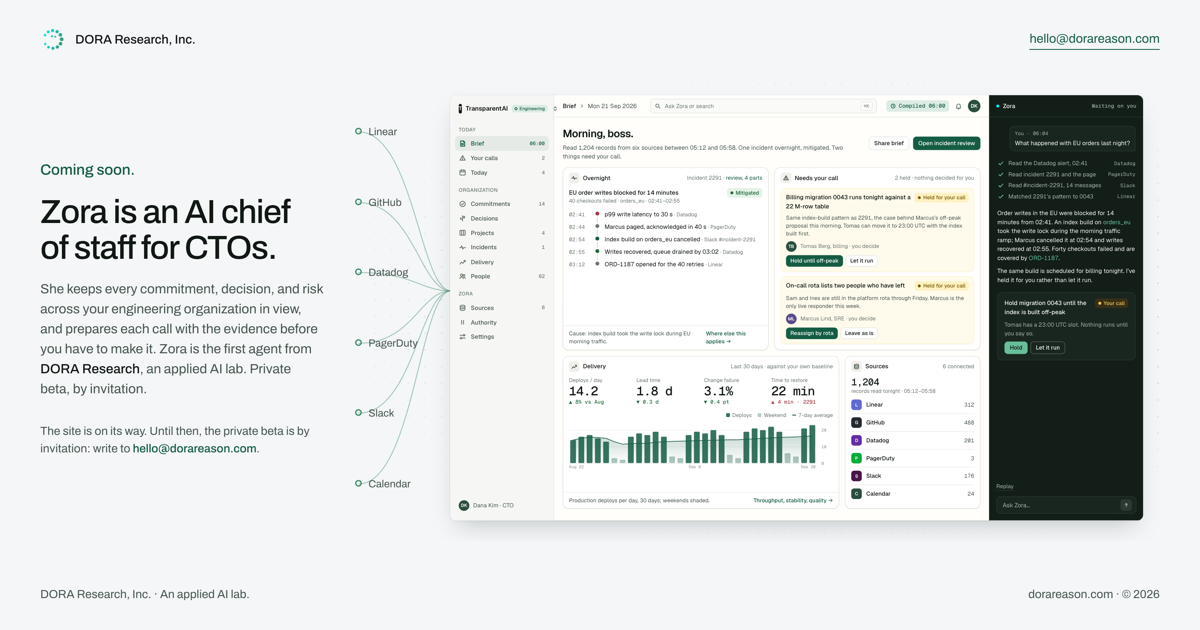
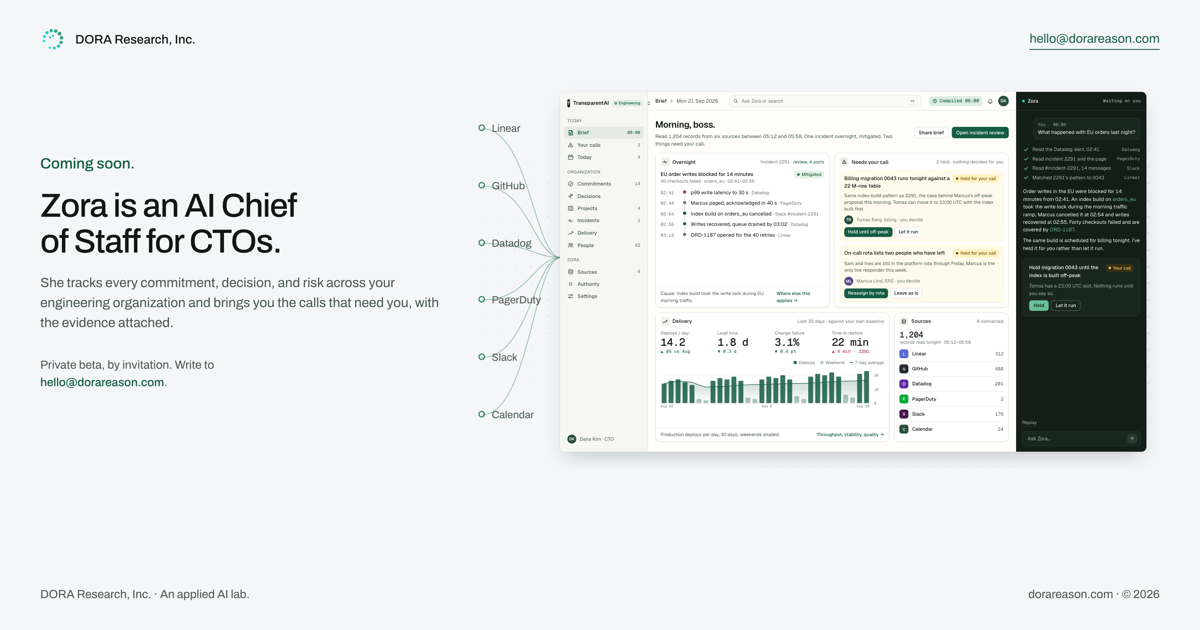
Design review: window at half width, phone layout, hero copy (#15)
* style(design): FINDING-001 — window takes half the page, copy gets a readable measure

The stage took 72% of the content width and the copy column was 340 px,
a 40-character measure. The copy column is now 480 px (about 54 characters)
and the window is about half the content width at 1440 px, still on the
right. The 1200 px stacking rule is gone; the hero stacks at 960 px.

* style(design): FINDING-002 — the window on phones

Header and top bar wrap, the greeting stacks above its actions, the four
delivery figures go two-up, and the later widget rows stay hidden at every
width, so a phone shows the same four widgets as a laptop instead of a
scroll of eight cards. Checked at 375 px: no horizontal overflow.

* style(design): FINDING-003 — hero copy says one concrete thing

The supporting paragraph now makes the one claim a CTO can picture, the
calls that need them with the evidence attached, in 27 words. The duplicate
invitation and the line apologising for the site are gone. Chief of Staff
is set as the name of the role so it sits level with CTOs in the headline;
the meta description and social title follow.

* style(design): FINDING-004 — chart labels meet AA

Axis and legend text in the Delivery chart used #838F89, 3.4:1 on white.
They now use the same #6B776F as every other small label, 4.7:1.

* style(design): FINDING-005 — drop dead tokens and a no-op media query

--band, --selected, and --shadow were declared and never read; the
[…]

diff --git a/public/coming-soon.html b/public/coming-soon.html
@@ -4,10 +4,10 @@
 <meta charset="utf-8">
 <meta name="viewport" content="width=device-width, initial-scale=1">
 <title>Coming soon · DORA Research, Inc.</title>
-<meta name="description" content="Zora is an AI chief of staff for CTOs, by DORA Research, an applied AI lab. Private beta, by invitation.">
+<meta name="description" content="Zora is an AI Chief of Staff for CTOs. She tracks every commitment, decision, and risk across your engineering organization and brings you the calls that need you, with the evidence attached. By DORA Research, an applied AI lab. Private beta, by invitation.">
 <meta property="og:type" content="website">
 <meta property="og:site_name" content="DORA Research, Inc.">
-<meta property="og:title" content="Zora is an AI chief of staff for CTOs. Coming soon.">
+<meta property="og:title" content="Zora is an AI Chief of Staff for CTOs. Coming soon.">
 <meta property="og:description" content="Zora is the first agent from DORA Research, an applied AI lab. Private beta, by invitation.">
 <meta property="og:image" content="https://www.dorareason.com/og-soon.png">
 <meta property="og:image:width" content="1200">
@@ -20,8 +20,8 @@
 <link rel="stylesheet" href="https://fonts.googleapis.com/css2?family=Archivo:wght@400;500&family=Geist:wght@400;500;600&family=Geist+Mono:wght@400;500&display=swap">
 <style>
   :root {
-    --canvas: #F4F6F8; --raised: #FFFEFB; --subtle: #F0EFE9; --band: #E2E8EE; --selected: #E7ECE8;
-    --ink: #111814; --muted: #48564F; --faint: #6B776F; --faint-ink: #838F89;
+    --canvas: #F4F6F8; --raised: #FFFEFB; --subtle: #F0EFE9;
+    --ink: #111814; --muted: #48564F; --faint: #6B776F;
     --rule: #DCE1DC; --rule-soft: #E6EAE6;
     --action: #145C43; --action-hover: #0C4935; --action-soft: #DCECE4;
     --focus: #1D63D8;
@@ -29,7 +29,6 @@
     --living: #3D8B68; --cyan: #03F5F2;
     /* night, for Zora's own panel */
     --n-ground: #131E18; --n-raised: #19261F; --n-hover: #23382F; --n-line: #2B3932; --n-strong: #5D6C64; --n-text: #F5F7F2; --n-muted: #A4B1AA; --n-mint: #67BF99; --n-mint-soft: #183428; --n-warn: #F1C65A; --n-warn-soft: #392F17; --n-rose: #F08A9A; --n-rose-soft: #3C2028; --n-ok: #72CF82; --n-ok-soft: #193A22;
-    --shadow: 0 2px 8px -2px rgba(13,21,17,.06), 0 16px 32px -12px rgba(13,21,17,.14);
     --window-shadow: 0 1px 2px rgba(13,21,17,.05), 0 24px 48px -16px rgba(13,21,17,.22), 0 0 0 1px rgba(13,21,17,.06);
     --ui: 'Geist', -apple-system, BlinkMacSystemFont, 'Segoe UI', sans-serif;
     --mono: 'Geist Mono', ui-monospace, 'SF Mono', Menlo, monospace;
@@ -49,7 +48,7 @@
   .top .mark g { transform-origin: 12px 12px; animation: swarm-spin 22s linear infinite; }
   @keyframes swarm-spin { to { transform: rotate(360deg); } }
 
-  .hero { padding: 28px 0 24px; display: grid; grid-template-columns: minmax(0, 340px) minmax(0, 1fr); gap: 32px; align-items: center; }
+  .hero { padding: 28px 0 24px; display: grid; grid-template-columns: minmax(0, 480px) minmax(0, 1fr); gap: 40px; align-items: center; }
   .kicker { margin: 0 0 16px; font-size: 18px; font-weight: 500; color: var(--action); }
   h1 { font-size: 40px; line-height: 1.08; font-weight: 500; letter-spacing: -.025em; margin: 0; max-width: 13em; text-wrap: balance; }
   .sub { margin: 16px 0 0; max-width: 32em; color: var(--muted); font-size: 16px; }
@@ -59,7 +58,7 @@
   .bottom { display: flex; justify-content: space-between; font-size: 14px; color: var(--muted); padding-top: 28px; }
 
   /* the stage: a dot-grid plate with the six sources feeding the scaled window */
-  .stage { position: relative; min-width: 0; display: grid; grid-template-columns: 120px minmax(0, 1fr); padding: 24px 20px 24px 0; border-radius: 16px; overflow: hidden; }
+  .stage { position: relative; min-width: 0; width: 100%; justify-self: end; display: grid; grid-template-columns: 104px minmax(0, 1fr); padding: 20px 16px 20px 0; border-radius: 16px; overflow: hidden; }
   .stage::before { content: ''; position: absolute; inset: 0; background-image: radial-gradient(circle, #C7CFD3 1px, transparent 1.2px); background-size: 20px 20px; -webkit-mask-image: radial-gradient(ellipse at 60% 50%, #000 30%, transparent 78%); mask-image: radial-gradient(ellipse at 60% 50%, #000 30%, transparent 78%); }
   .feed { position: relative; min-width: 0; }
   .feed svg { position: absolute; inset: 0; width: 100%; height: 100%; overflow: visible; }
@@ -118,6 +117,7 @@
   .w-h .meta { margin-left: auto; font-weight: 400; color: var(--faint); font-size: 11.5px; }
   .w-h .meta a { color: var(--action); }
   .w-b { padding: 10px 12px 12px; }
+  .metrics { display: grid; grid-template-columns: repeat(4, minmax(0, 1fr)); gap: 12px; }
   .w-f { margin-top: auto; border-top: 1px solid var(--rule-soft); padding: 8px 12px; display: flex; justify-content: space-between; align-items: center; font-size: 11.5px; color: var(--muted); }
   .w-f a { color: var(--action); font-weight: 500; }
 
@@ -224,11 +224,9 @@
   .zp .replay { margin: 0 14px 12px; align-self: flex-start; font: inherit; font-size: 11.5px; color: var(--n-muted); background: none; border: 0; padding: 0; border-bottom: 1px solid var(--n-line); cursor: pointer; }
   .zp .replay:hover { color: var(--n-text); border-color: var(--n-text); }
 
-  @media (min-width: 961px) { .grid > .w:nth-child(n+5) { display: none; } }
-  @media (max-width: 1200px) {
-    .hero { grid-template-columns: 1fr; gap: 20px; }
-  }
+  .grid > .w:nth-child(n+5) { display: none; }
   @media (max-width: 960px) {
+    .hero { grid-template-columns: 1fr; gap: 20px; }
     .frame { width: auto !important; transform: none !important; }
     .slot { height: auto !important; }
     .stage { grid-template-columns: 1fr; padding: 20px 12px; }
@@ -240,6 +238,12 @@
   }
   @media (max-width: 640px) {
     .page { padding: 24px; }
+    .top { flex-wrap: wrap; gap: 8px 16px; }
+    .bar { height: auto; min-height: 46px; flex-wrap: wrap; gap: 8px 12px; padding: 8px 12px; }
+    .bar .right { margin-left: 0; }
+    .greet { flex-direction: column; align-items: flex-start; gap: 10px; }
+    .greet .actions { flex-wrap: wrap; }
+    .metrics { grid-template-columns: repeat(2, minmax(0, 1fr)); }
     h1 { font-size: 32px; }
     .grid { grid-template-columns: 1fr; }
     .w, .w.c3, .w.c4, .w.c6 { grid-column: span 1; }
@@ -251,7 +255,7 @@
     .top .mark g { animation: none; }
     .zp-h .st.busy::after { animation: none; }
   }
-  @media (prefers-reduced-motion: reduce), all { html.reduced .w, html.reduced .msg, html.reduced .step, html.reduced .draw, html.reduced .grow-y, html.reduced .fill { transition: none !important; } }
+  html.reduced .w, html.reduced .msg, html.reduced .step, html.reduced .draw, html.reduced .grow-y, html.reduced .fill { transition: none !important; }
   @media (prefers-reduced-motion: reduce) { .w, .msg, .step, .draw, .grow-y, .fill { transition: none !important; } }
 </style>
 </head>
@@ -298,9 +302,9 @@
     <section class="hero">
       <div class="copy">
         <p class="kicker">Coming soon.</p>
-        <h1>Zora is an AI chief of staff for CTOs.</h1>
-        <p class="sub">She keeps every commitment, decision, and risk across your engineering organization in view, and prepares each call with the evidence before you have to make it. Zora is the first agent from <b>DORA Research</b>, an applied AI lab. Private beta, by invitation.</p>
-        <p class="contact">The site is on its way. Until then, the private beta is by invitation: write to <a href="mailto:hello@dorareason.com"><b>hello@dorareason.com</b></a>.</p>
+        <h1>Zora is an AI Chief of Staff for CTOs.</h1>
+        <p class="sub">She tracks every commitment, decision, and risk across your engineering organization and brings you the calls that need you, with the evidence attached.</p>
+        <p class="contact">Private beta, by invitation. Write to <a href="mailto:hello@dorareason.com"><b>hello@dorareason.com</b></a>.</p>
       </div>
 
       <div class="stage" id="stage">
@@ -348,7 +352,7 @@
                 <h2 id="greet">Morning, boss.</h2>
                 <p>Read 1,204 records from six sources between 05:12 and 05:58. One incident overnight, mitigated. Two things need your call.</p>
               </div>
-              <div class="actions"><button class="btn" type="button">Share brief</button><button class="btn primary" type="button">Open incident review</button></div>
+              <div class="actions" aria-hidden="true"><button class="btn" type="button" tabindex="-1">Share brief</button><button class="btn primary" type="button" tabindex="-1">Open incident review</button></div>
             </div>
 
             <div class="grid" id="grid">
@@ -393,7 +397,7 @@
               <!-- WIDGET:delivery -->
               <section class="w c4" data-w="delivery">
                 <header class="w-h"><span class="ic"><svg class="i"><use href="#i-delivery"/></svg></span>Delivery<span class="meta">Last 30 days · against your own baseline</span></header>
-                <div class="w-b" style="display:grid;grid-template-columns:repeat(4,minmax(0,1fr));gap:12px">
+                <div class="w-b metrics">
                   <div><div class="lbl">Deploys / day</div><div class="num" data-count="14.2" data-dec="1">0.0</div><div class="delta up">▲ 8% vs Aug</div></div>
                   <div><div class="lbl">Lead time</div><div class="num" data-count="1.8" data-dec="1" data-unit=" d">0.0 d</div><div class="delta up">▼ 0.3 d</div></div>
                   <div><div class="lbl">Change failure</div><div class="num" data-count="3.1" data-dec="1" data-unit="%">0.0%</div><div class="delta up">▼ 0.4 pt</div></div>
@@ -403,7 +407,7 @@
                   <div class="legend"><span><i style="background:#145C43;opacity:.85"></i>Deploys</span><span><i style="background:#145C43;opacity:.3"></i>Weekend</span><span><i style="height:2px;background:#145C43"></i>7-day average</span></div>
                   <svg class="chart" viewBox="0 0 640 120" aria-hidden="true">
                     <g stroke="#E6EAE6" stroke-width="1"><path d="M0 100.5H600M0 60.5H600M0 20.5H600"/></g>
-                    <g font-family="Geist Mono, ui-monospace, monospace" font-size="10" fill="#838F89"><text x="0" y="112">Aug 22</text><text x="290" y="112">Sep 6</text><text x="562" y="112">Sep 20</text><text x="612" y="24">20</text><text x="612" y="64">10</text><text x="612" y="104">0</text></g>
+                    <g font-family="Geist Mono, ui-monospace, monospace" font-size="10" fill="#6B776F"><text x="0" y="112">Aug 22</text><text x="290" y="112">Sep 6</text><text x="562" y="112">Sep 20</text><text x="612" y="24">20</text><text x="612" y="64">10</text><text x="612" y="104">0</text></g>
                     <g id="bars" fill="#145C43" fill-opacity=".85"></g>
                     <path id="avg-area" fill="url(#area)" class="fill"/>
                     <path id="avg-line" fill="none" stroke="#145C43" stroke-width="1.5" class="draw" pathLength="1"/>
